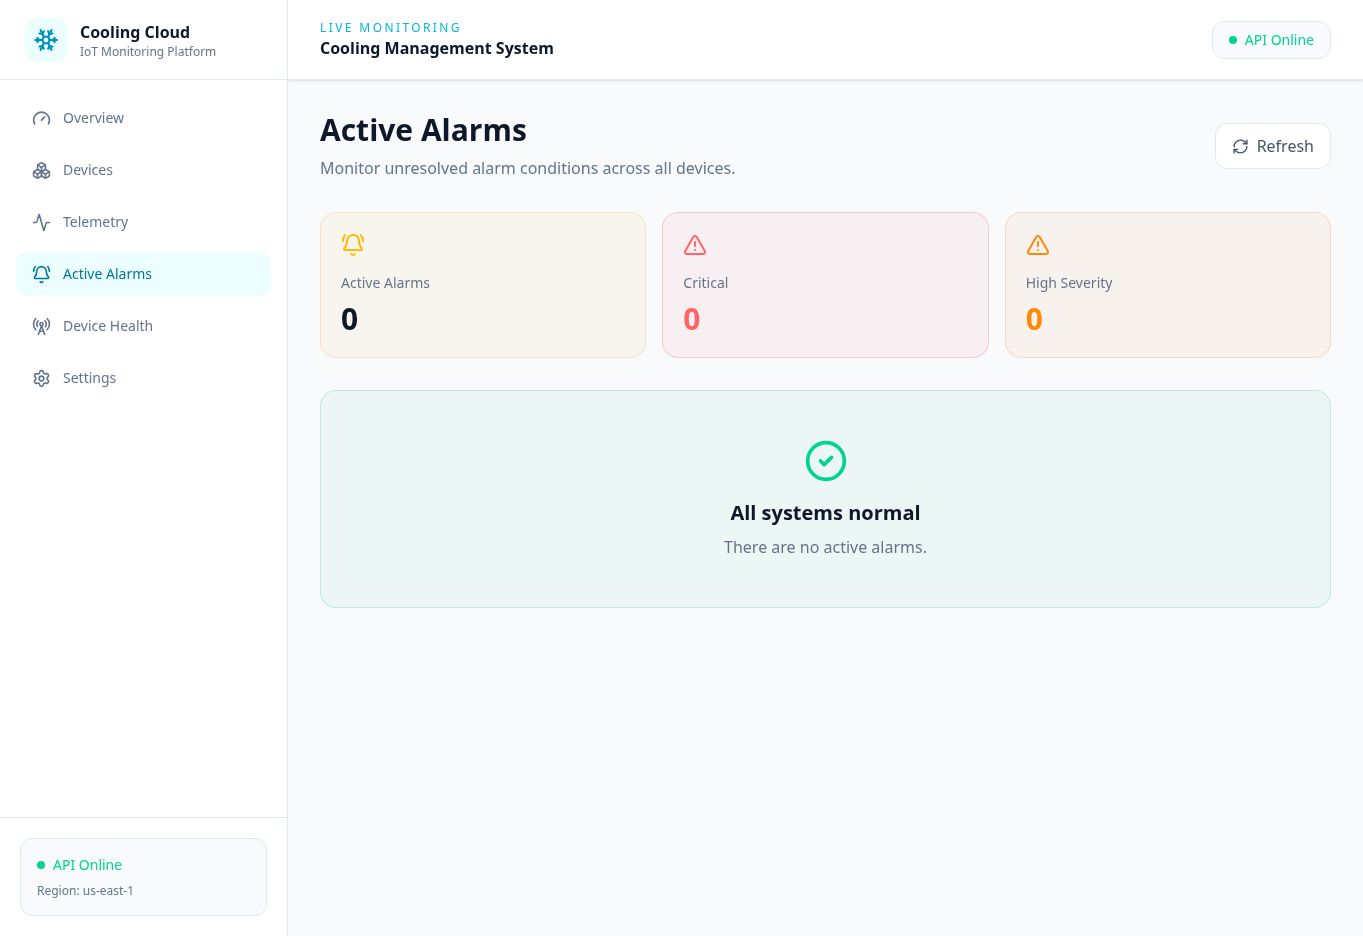
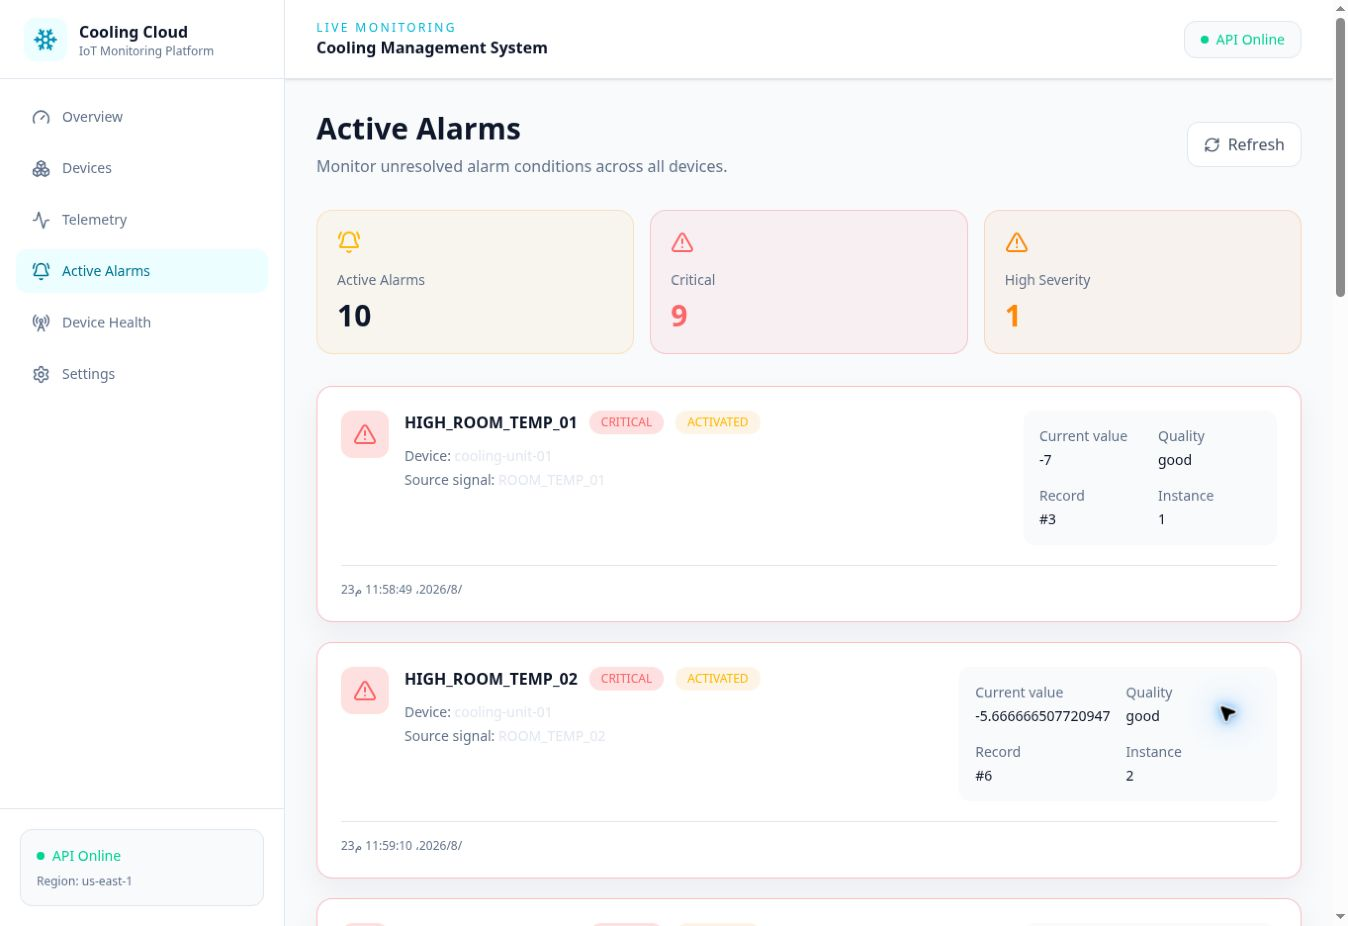
docs: refresh live screenshots and remove obsolete READMEs

diff --git a/docs/03-firmware-architecture.md b/docs/03-firmware-architecture.md
@@ -43,6 +43,12 @@ flowchart TD
 
 The uploader never skips an unsupported or failed record and never commits the cursor after publish alone. The cursor moves only when the ACK contains `status: "ok"` and the expected `record_id`.
 
+## Live health visibility
+
+The dashboard exposes the same delivery state reported by the device: Wi-Fi connection, MQTT readiness, journal size, pending bytes, cursor offset, last acknowledged record, disconnect count, and cloud errors.
+
+![Live device health](assets/screenshots/dashboard-health.png)
+
 ## Connectivity fault testing
 
 `CONFIG_FIRMWARE_WIFI_FAULT_TEST` enables a one-shot Wokwi test: 30 seconds online, 60 seconds forced offline, then restored connectivity. Alarm generation and local storage continue during the outage so replay can be verified.
